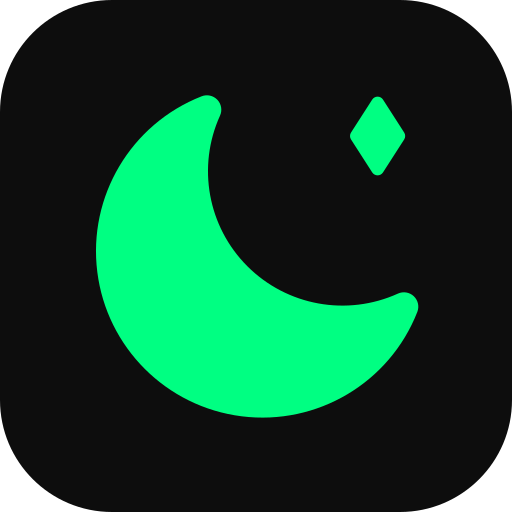
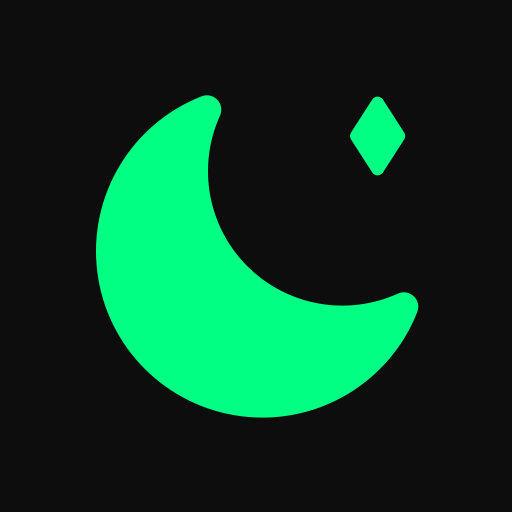
fix(brand): keep upstream CRLF, override ic_lime_layer additively
Review follow-ups on the green moon rebrand:

- set_color() rewrote the two upstream colour files from CRLF to LF, turning a
  one-value edit into a whole-file diff. It now preserves line endings and
  re-inserts the MEOW-TOUCH marker itself if a sync drops it; the diff is
  exactly the value line plus the marker line.
- ic_lime_layer is now a new drawable-anydpi-v26 override; upstream's
  drawable/ic_lime_layer.xml is restored untouched.
- Launcher glyph grid 64 dp -> 58 dp for more room inside circle masks.
- Play icon (fastlane icon.png, ic_launcher-web.png) is full-bleed and
  opaque, since Play applies its own mask.
- build.sh records the librsvg/Pillow versions the bytes were made with;
  TOUCHPOINTS states that the unreachable density PNGs are replaced by
  choice, not necessity.

diff --git a/store-assets/meow/build_icons.py b/store-assets/meow/build_icons.py
@@ -49,7 +49,7 @@ DENSITIES = [("mdpi", 48, 108), ("hdpi", 72, 162), ("xhdpi", 96, 216),
 #: Where the 256-unit glyph grid lands on the 108 dp adaptive-icon canvas: (offset, scale).
 #: Adaptive icons are masked to at most the central 66 dp circle; both placements keep every
 #: point of the glyph inside it (checked in ``selfcheck``).
-MOON_LAYER = (22.0, 64.0 / 256)
+MOON_LAYER = (25.0, 58.0 / 256)
 PC_LAYER = (24.5, 59.0 / 256)
 
 
@@ -151,15 +151,30 @@ def save_png(img, path, opaque=False):
     write(path, buf.getvalue())
 
 
+MARKER = ("<!-- MEOW-TOUCH(green-brand): meowerse plate colour (surface-0, dark theme); "
+          "value set by store-assets/meow/build.sh -->")
+
+
 def set_color(path, name, value):
-    """Rewrite one <color name=...> value in an upstream values file, leaving the rest."""
-    with open(path) as fh:
+    """Rewrite one <color name=...> value in an upstream values file, leaving the rest.
+
+    Upstream stores these files with CRLF line endings; ``newline=""`` keeps whatever the
+    file uses, so the diff stays at exactly the value line plus the marker comment. The
+    marker is (re)inserted above the colour if missing, e.g. after an upstream sync.
+    """
+    with open(path, newline="") as fh:
         src = fh.read()
+    eol = "\r\n" if "\r\n" in src else "\n"
     new, n = re.subn(rf'(<color name="{name}">)[^<]*(</color>)', rf"\g<1>{value}\g<2>", src)
     if n != 1:
         sys.exit(f"{path}: expected exactly one <color name=\"{name}\">")
+    if MARKER not in new:
+        new = re.sub(rf'([ \t]*)(<color name="{name}">)', lambda m: f"{m.group(1)}{MARKER}{eol}{m.group(1)}{m.group(2)}", new)
     if new != src:
-        write(path, new)
+        os.makedirs(os.path.dirname(path), exist_ok=True)
+        with open(path, "w", newline="") as fh:
+            fh.write(new)
+        print("  " + os.path.relpath(path, ROOT))
     else:
         print("  " + os.path.relpath(path, ROOT) + " (unchanged)")
 
@@ -204,14 +219,19 @@ def main():
     write(os.path.join(RES, "drawable-anydpi-v26", "app_icon.xml"),
           vector_drawable(GLYPH_D, 24, 256, "#FFFFFFFF", comment="Notification small icon (alpha only)."))
     save_png(render(svg_doc(f'<path fill="#ffffff" d="{GLYPH_D}"/>'), 96), os.path.join(RES, "drawable", "app_icon.png"))
-    # ic_channel.xml layers this over @color/ic_launcher_background for the Android TV channel.
-    write(os.path.join(RES, "drawable", "ic_lime_layer.xml"),
-          vector_drawable(GLYPH_D, 24, 256, GREEN, comment="MEOW-TOUCH(green-brand): upstream file, content replaced; TV channel logo glyph, see ic_channel.xml."))
+    # ic_channel.xml layers @drawable/ic_lime_layer over @color/ic_launcher_background for the
+    # Android TV channel logo. An anydpi-v26 override wins over upstream's drawable/ copy on
+    # every supported device, so the upstream file stays untouched.
+    write(os.path.join(RES, "drawable-anydpi-v26", "ic_lime_layer.xml"),
+          vector_drawable(GLYPH_D, 24, 256, GREEN, comment="TV channel logo glyph, see drawable/ic_channel.xml."))
 
     print("store / TV art:")
-    icon512 = render(svg_doc(plated()), 512)
-    save_png(icon512, os.path.join(MAIN, "ic_launcher-web.png"))
-    save_png(icon512, os.path.join(FASTLANE, "icon.png"))
+    # Play store icon: full-bleed square (Play applies its own corner mask), no alpha.
+    full = svg_doc(f'<rect width="256" height="256" fill="{PLATE}"/>'
+                   f'<path fill="{GREEN}" transform="{GLYPH_T}" d="{GLYPH_D}"/>')
+    icon512 = render(full, 512)
+    save_png(icon512, os.path.join(MAIN, "ic_launcher-web.png"), True)
+    save_png(icon512, os.path.join(FASTLANE, "icon.png"), True)
     save_png(render(banner(320, 180, 104, 58), 320, 180), os.path.join(RES, "drawable-xhdpi", "atv_banner.png"), True)
     save_png(render(banner(732, 412, 236, 132), 732, 412), os.path.join(RES, "drawable-xhdpi", "ouya_icon.png"), True)
     save_png(render(banner(1280, 720, 400, 220), 1280, 720), os.path.join(FASTLANE, "tvBanner.png"), True)

diff --git a/docs/meow/TOUCHPOINTS.md b/docs/meow/TOUCHPOINTS.md
@@ -967,10 +967,9 @@ would edit four upstream sources and the manifest.
 
 | File(s) | Marker | What changed |
 | --- | --- | --- |
-| `res/values/ic_launcher_background.xml`, `res/values/ic_pc_scut_background.xml` | XML comment | one colour value each: `#000000` / `#FFFFFF` → `#0D0D0D` |
-| `res/drawable/ic_lime_layer.xml` | XML comment | wedge glyph → green moon (TV channel logo, layered by the unchanged `ic_channel.xml`) |
-| `res/mipmap-{m,h,xh,xxh,xxxh}dpi/ic_launcher.png`, `ic_launcher_foreground.png`, `ic_pc_scut.png`, `ic_pc_scut_foreground.png` (20 files) | _(binary — this row)_ | regenerated; never selected on API 26+ (the anydpi-v26 XML wins), kept so the tree has no stale Artemis art |
-| `res/drawable/app_icon.png` | _(binary — this row)_ | white moon on transparent (alpha-only fallback) |
+| `res/values/ic_launcher_background.xml`, `res/values/ic_pc_scut_background.xml` | XML comment | one colour value each (`#000000` / `#FFFFFF` → `#0D0D0D`) plus the marker line; upstream's CRLF line endings preserved, so the diff is exactly those two lines. The generator re-inserts the marker if an upstream sync drops it. An additive `values-v26` override was rejected: with minSdk 26 aapt2 strips the `-v26` qualifier and the two definitions would collide |
+| `res/mipmap-{m,h,xh,xxh,xxxh}dpi/ic_launcher.png`, `ic_launcher_foreground.png`, `ic_pc_scut.png`, `ic_pc_scut_foreground.png` (20 files) | _(binary — this row)_ | regenerated. **Not reachable on any supported device** (minSdk 26: the anydpi XML wins), so this is not forced by layers 1–3 — it is a deliberate choice, made so the tree and the APK carry no stale Artemis art. Cost: 20 binary conflict points on a sync that touches them; resolution is "re-run the script" |
+| `res/drawable/app_icon.png` | _(binary — this row)_ | white moon on transparent. Also unreachable on minSdk 26 (`drawable-anydpi-v26/app_icon.xml` wins); replaced for the same reason as the row above. Upstream's copy was the full-colour launcher PNG, which rendered as a white blob in the status bar |
 | `res/drawable-xhdpi/atv_banner.png`, `res/drawable-xhdpi/ouya_icon.png` | _(binary — this row)_ | "Moonmeow / Game Streaming" banner |
 | `app/src/main/ic_launcher-web.png`, `fastlane/…/images/{icon,featureGraphic,tvBanner}.png` | _(binary — this row)_ | store icon and banners |
 
@@ -980,6 +979,7 @@ would edit four upstream sources and the manifest.
 | --- | --- |
 | `res/mipmap-anydpi-v26/ic_launcher_foreground.xml`, `ic_pc_scut_foreground.xml` | vector adaptive foregrounds. Same resource name as the density PNGs, so the **unchanged** `ic_launcher.xml`/`ic_pc_scut.xml` pick them up on every device (minSdk 26) and their existing `<monochrome>` reference — which points at the foreground — now gives Android 13+ themed icons a clean alpha glyph |
 | `res/drawable-anydpi-v26/app_icon.xml` | vector notification small icon, white/alpha only, 24 dp |
+| `res/drawable-anydpi-v26/ic_lime_layer.xml` | green moon for the Android TV channel logo; overrides upstream's untouched `drawable/ic_lime_layer.xml` (the Artemis wedges), which the unchanged `ic_channel.xml` layer-list references by name |
 | `store-assets/meow/moonmeow.svg`, `build.sh`, `build_icons.py` | the master and its generator |
 
 Deliberately **not** changed: `ic_launcher.xml`/`ic_pc_scut.xml` themselves, the app theme
